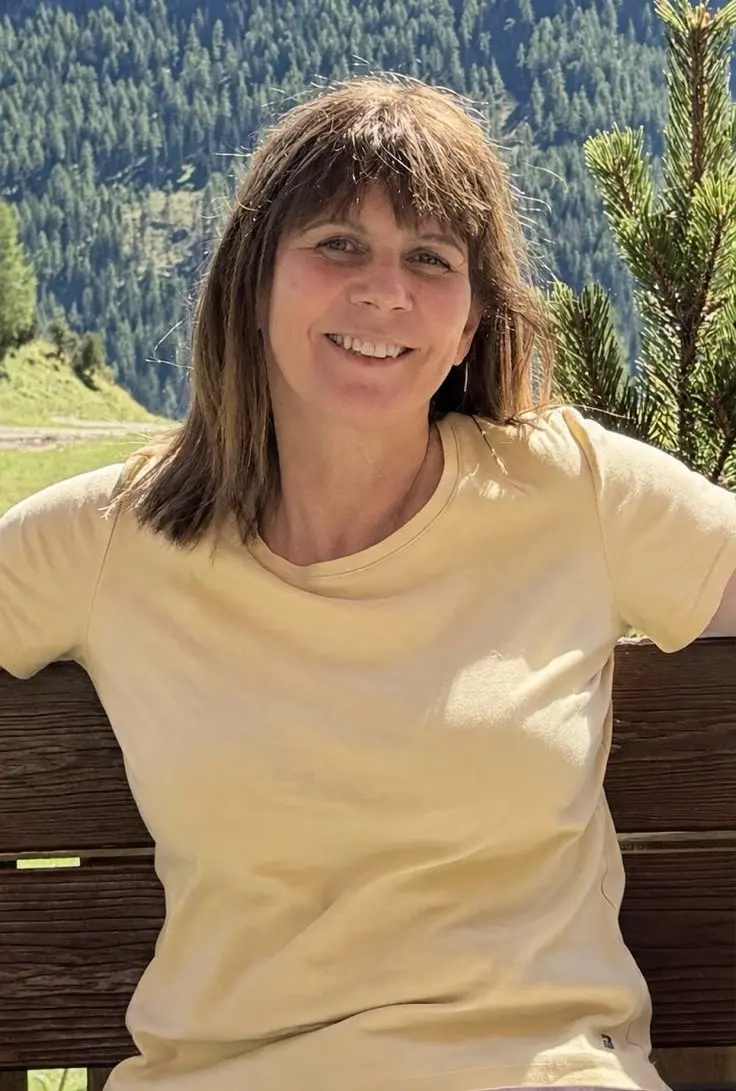
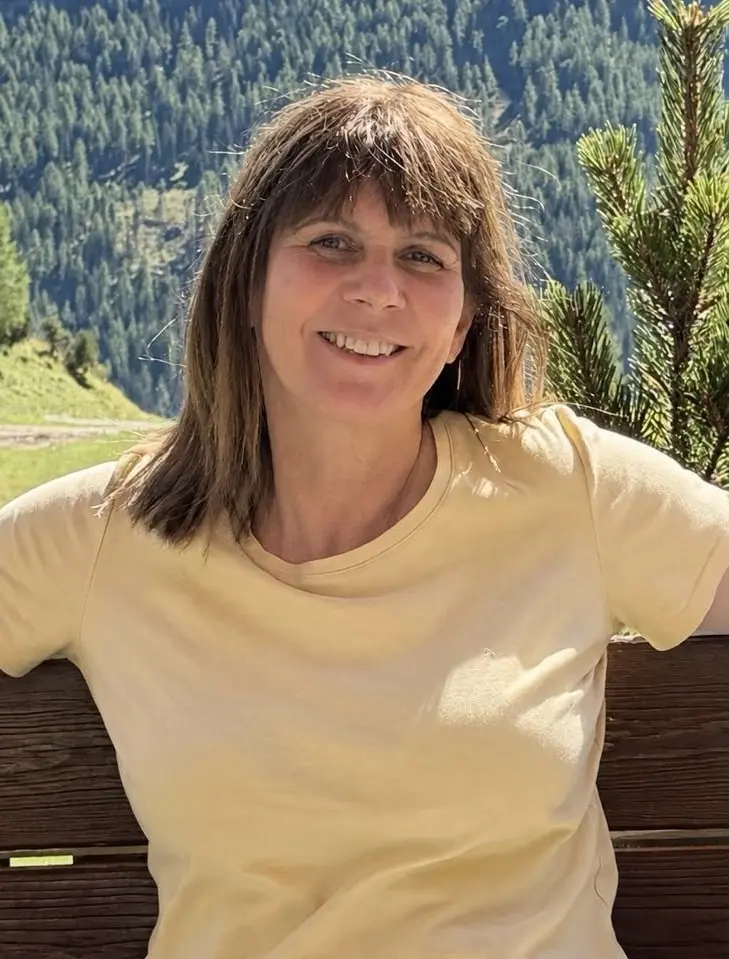
Deploying to gh-pages from @ ScanLab-ossi/ScanLab-ossi.github.io@e39e8ffe0a147072e25c900405483aba5eee9ce5 🚀

diff --git a/index.html b/index.html
@@ -20,7 +20,7 @@
   :root {
     --max-content-width: 930px;
   }
-</style> <link rel="stylesheet" href="/assets/css/tailwind.css?v=50c64c15cbb9fd1ce6056fdb8bcb4b62"> <link defer rel="stylesheet" href="https://cdn.jsdelivr.net/npm/@fortawesome/fontawesome-free@7.2.0/css/all.min.css" integrity="sha256-MVopmdyC2tYTiJ8wlktf0uh0v4NgT+vNdyVFepi7Q0c=" crossorigin="anonymous"> <link defer rel="stylesheet" href="https://cdn.jsdelivr.net/npm/academicons@1.9.5/css/academicons.min.css" integrity="sha256-SzrCOBJbGVFMahewkgjwnApaV2+av1DwMAA+/QGLyZw=" crossorigin="anonymous"> <link defer rel="stylesheet" href="https://cdn.jsdelivr.net/npm/scholar-icons@1.0.3/css/scholar-icons.css" integrity="sha256-VY3hHVj/hNX3fYG6wtbA6TcKJQl7+FthzGSyIB64klY=" crossorigin="anonymous"> <link defer rel="stylesheet" type="text/css" href="https://fonts.googleapis.com/css?family=Roboto:300,400,500,700|Roboto+Slab:100,300,400,500,700|Material+Icons&amp;display=swap"> <link defer rel="stylesheet" href="/assets/css/jekyll-pygments-themes-github.css?v=591dab5a4e56573bf4ef7fd332894c99" media="" id="highlight_theme_light"> <link rel="shortcut icon" href="/assets/img/favicon.png?v=ea7904c47cbd5a6f403e2af74b6ba9ca"> <link rel="stylesheet" href="/assets/css/main.css?v=f0b101217084a90093badfe99ff9a7d1"> <link rel="canonical" href="https://ossimokryn.com/"> </head> <body class="fixed-top-nav "> <header> <nav id="navbar" class="navbar navbar-light navbar-expand-sm fixed-top" role="navigation"> <div class="container"> <button class="navbar-toggler collapsed navbar-toggler-main" type="button" data-nav-toggle="navbarNav" aria-controls="navbarNav" aria-expanded="false" aria-label="Toggle navigation"> <span class="sr-only">Toggle navigation</span> <span class="icon-bar top-bar"></span> <span class="icon-bar middle-bar"></span> <span class="icon-bar bottom-bar"></span> </button> <div class="collapse navbar-collapse navbar-collapse-main" id="navbarNav"> <ul class="navbar-nav navbar-menu-list flex-nowrap"> <li class="nav-item active"> <a class="nav-link" href="/">about <span class="sr-only">(current)</span> </a> </li> <li class="nav-item "> <a class="nav-link" href="/people/">lab </a> </li> <li class="nav-item "> <a class="nav-link" href="/blog/">blog </a> </li> <li class="nav-item "> <a class="nav-link" href="/projects/">research </a> </li> <li class="nav-item "> <a class="nav-link" href="/publications/">publications </a> </li> <li class="nav-item "> <a class="nav-link" href="/teaching/">teaching </a> </li> <li class="nav-item "> <a class="nav-link" href="/cv/">cv </a> </li> <li class="nav-item"> <button id="search-toggle" type="button" title="Search" aria-label="Open search"> <span class="nav-link">ctrl k <i class="fa-solid fa-magnifying-glass"></i></span> </button> </li> </ul> </div> </div> </nav> <progress id="progress" value="0"> <div class="progress-container"> <span class="progress-bar"></span> </div> </progress> </header> <div class="container mt-5" role="main"> <div class="post"> <header class="post-header"> <h1 class="post-title"> <span class="font-weight-bold">Osnat</span> (Ossi) Mokryn </h1> <p class="desc">Associate Professor, Department of Information Systems, <a href="https://www.haifa.ac.il/?lang=en" rel="external nofollow noopener" target="_blank">University of Haifa</a>. Chair, ACM IUI Steering Committee.</p> </header> <article> <div class="profile float-right"> <figure> <picture> <source class="responsive-img-srcset" srcset="/assets/img/prof_pic-480.webp 480w,/assets/img/prof_pic-800.webp 800w,/assets/img/prof_pic-1400.webp 1400w," type="image/webp" sizes="(min-width: 930px) 270.0px, (min-width: 576px) 30vw, 95vw"> <img src="/assets/img/prof_pic.jpg?v=bac40b5e7a4ef5693e4e0a1dd1584b67" class="img-fluid z-depth-1 rounded" width="100%" height="auto" alt="prof_pic.jpg" loading="eager" onerror="this.onerror=null; document.querySelectorAll('.responsive-img-srcset').forEach(function (n) { n.remove(); });"> </source></picture> </figure> <div class="more-info"> <p><strong>Email:</strong> omokryn [at] is.haifa.ac.il</p> <p><strong>Office:</strong> Amir 321</p> <p>Hanamal 65, Haifa, Israel</p> </div> </div> <div class="clearfix"> <p>I study complex human systems: how people interact, make decisions, and adapt when technology, uncertainty, and time shape their choices.</p> <p>In my research on human–AI collaboration, I examine what changes in people when an AI system becomes part of the team. How does a group generate ideas with a language model in the room? How does trust change when a teammate is a machine? And how do professionals preserve, and redefine, their expertise? I am particularly interested in human–AI decision-making under pressure, including in medical settings.</p> <p>I also study absence: the gap between what is expected and what is actually observed. Absence can contain important information, but conventional analyses often overlook it. I developed <a href="/projects/2_project/">two information-theoretic methods</a> that transform data so consequential absences can be detected and used in analysis.</p> <p>A third strand of my research examines how interactions unfold over time. Social and organizational interactions have rhythms, and those rhythms can shape collective outcomes. In our work on temporal networks and community dynamics, we showed that the timing of interactions within a community can influence how a disease spreads, sometimes more strongly than differences in the pathogen itself. I presented this research in a keynote at <a href="/blog/2025/netscix-keynote/">NetSciX 2025</a> and, more recently, at <a href="http://www.sigmaphi.polito.it/" rel="external nofollow noopener" target="_blank">SigmaPhi 2026</a>.</p> <p>I chair the <a href="https://iui.acm.org/steering/" rel="external nofollow noopener" target="_blank">ACM IUI Steering Committee</a> and serve as an Associate Editor at <em>ACM Transactions on Interactive Intelligent Systems</em>. I hold a Ph.D. in Computer Science from the Hebrew University of Jerusalem, and an M.Sc. and B.Sc. from the Technion. Prospective students: please see the <a href="/people/">lab page</a> and get in touch.</p> </div> <h2> <a href="/news/" style="color: inherit">news</a> </h2> <div class="news"> <div class="table-responsive" style="max-height: 60vw"> <table class="table table-sm table-borderless"> <tr> <th scope="row" style="width: 20%">Jan 05, 2026</th> <td> Two papers accepted to <strong>ACM IUI 2026</strong>: Hagit Ben-Shoshan et al., <em>Seeing What’s Not There</em>, and Eran Fainman et al., <em>DiSCo: Making Absence Visible in Intelligent Summarization Interfaces</em>. 🎉 </td> </tr> <tr> <th scope="row" style="width: 20%">Jan 01, 2026</th> <td> I began my term as <strong>Chair of the <a href="https://iui.acm.org/steering/" rel="external nofollow noopener" target="_blank">ACM IUI Steering Committee</a></strong>. </td> </tr> <tr> <th scope="row" style="width: 20%">Sep 01, 2025</th> <td> Our PhD student <strong>Eran Fainman</strong> (co-advised with Dr. Adir Solomon) had <em>PAIRSAT</em> accepted to <strong>ACM RecSys 2025</strong>. 🎉 </td> </tr> <tr> <th scope="row" style="width: 20%">May 15, 2025</th> <td> New papers accepted: <em>Interpretable Transformation and Analysis of Timelines through Learning via Surprisability</em> (<strong>Chaos</strong>) and <em>Emotion Diversification for Movie Recommenders</em> (<strong>ACM TiiS</strong>). </td> </tr> <tr> <th scope="row" style="width: 20%">Feb 01, 2025</th> <td> I delivered a <strong>keynote at NetSciX’25</strong> in Indore, India, presenting our interaction-driven model for the dynamics of viral transmission in real-world interactions. </td> </tr> </table> </div> </div> <h2> <a href="/blog/" style="color: inherit">latest posts</a> </h2> <div class="news"> <div class="table-responsive" style="max-height: 60vw"> <table class="table table-sm table-borderless"> <tr> <th scope="row" style="width: 20%">Nov 03, 2025</th> <td> <a class="news-title" href="/blog/2025/unleashing-absence-and-surprise/">Unleashing the Power of Absence and Surprise</a> </td> </tr> <tr> <th scope="row" style="width: 20%">Sep 14, 2025</th> <td> <a class="news-title" href="/blog/2025/eran-recsys-2025/">Lab Celebration: Eran's RecSys 2025 Paper!</a> </td> </tr> <tr> <th scope="row" style="width: 20%">May 04, 2025</th> <td> <a class="news-title" href="/blog/2025/travelers-say-vs-rate/">Paper Alert: What Travelers Say vs. What They Rate</a> </td> </tr> </table> </div> </div> <h2> <a href="/publications/" style="color: inherit">selected publications</a> </h2> <div class="publications"> <ol class="bibliography"> <li> <div class="row"> <div class="col col-sm-2 abbr"> <abbr class="badge rounded w-100">IJHCI</abbr> </div> <div id="alfassi2025fanfiction" class="col-sm-8"> <div class="title">Fanfiction in the Age of AI: Community Perspectives on Creativity, Authenticity and Adoption</div> <div class="author"> Roi Alfassi, Angelora Cooper, Zoe Mitchell, and <span class="more-authors" title="click to view 3 more authors" onclick=" var element=this; element.setAttribute('title', ''); var more_authors_text=element.textContent == '3 more authors' ? 'Mary Calabro, Orit Shaer, Osnat Mokryn' : '3 more authors'; var cursorPosition=0; var textAdder=setInterval(function(){ element.innerHTML = more_authors_text.substring(0, cursorPosition + 1); if (++cursorPosition == more_authors_text.length){ clearInterval(textAdder); } }, '10'); ">3 more authors</span> </div> <div class="periodical"> <em>International Journal of Human-Computer Interaction</em>, 2026 </div> <div class="periodical"> </div> <div class="links"> <a class="bibtex btn btn-sm z-depth-0" role="button">Bib</a> </div> <div class="bibtex hidden"> <figure class="highlight"><pre><code class="language-bibtex" data-lang="bibtex"><span class="nc">@article</span><span class="p">{</span><span class="nl">alfassi2025fanfiction</span><span class="p">,</span>
+</style> <link rel="stylesheet" href="/assets/css/tailwind.css?v=50c64c15cbb9fd1ce6056fdb8bcb4b62"> <link defer rel="stylesheet" href="https://cdn.jsdelivr.net/npm/@fortawesome/fontawesome-free@7.2.0/css/all.min.css" integrity="sha256-MVopmdyC2tYTiJ8wlktf0uh0v4NgT+vNdyVFepi7Q0c=" crossorigin="anonymous"> <link defer rel="stylesheet" href="https://cdn.jsdelivr.net/npm/academicons@1.9.5/css/academicons.min.css" integrity="sha256-SzrCOBJbGVFMahewkgjwnApaV2+av1DwMAA+/QGLyZw=" crossorigin="anonymous"> <link defer rel="stylesheet" href="https://cdn.jsdelivr.net/npm/scholar-icons@1.0.3/css/scholar-icons.css" integrity="sha256-VY3hHVj/hNX3fYG6wtbA6TcKJQl7+FthzGSyIB64klY=" crossorigin="anonymous"> <link defer rel="stylesheet" type="text/css" href="https://fonts.googleapis.com/css?family=Roboto:300,400,500,700|Roboto+Slab:100,300,400,500,700|Material+Icons&amp;display=swap"> <link defer rel="stylesheet" href="/assets/css/jekyll-pygments-themes-github.css?v=591dab5a4e56573bf4ef7fd332894c99" media="" id="highlight_theme_light"> <link rel="shortcut icon" href="/assets/img/favicon.png?v=ea7904c47cbd5a6f403e2af74b6ba9ca"> <link rel="stylesheet" href="/assets/css/main.css?v=f0b101217084a90093badfe99ff9a7d1"> <link rel="canonical" href="https://ossimokryn.com/"> </head> <body class="fixed-top-nav "> <header> <nav id="navbar" class="navbar navbar-light navbar-expand-sm fixed-top" role="navigation"> <div class="container"> <button class="navbar-toggler collapsed navbar-toggler-main" type="button" data-nav-toggle="navbarNav" aria-controls="navbarNav" aria-expanded="false" aria-label="Toggle navigation"> <span class="sr-only">Toggle navigation</span> <span class="icon-bar top-bar"></span> <span class="icon-bar middle-bar"></span> <span class="icon-bar bottom-bar"></span> </button> <div class="collapse navbar-collapse navbar-collapse-main" id="navbarNav"> <ul class="navbar-nav navbar-menu-list flex-nowrap"> <li class="nav-item active"> <a class="nav-link" href="/">about <span class="sr-only">(current)</span> </a> </li> <li class="nav-item "> <a class="nav-link" href="/people/">lab </a> </li> <li class="nav-item "> <a class="nav-link" href="/blog/">blog </a> </li> <li class="nav-item "> <a class="nav-link" href="/projects/">research </a> </li> <li class="nav-item "> <a class="nav-link" href="/publications/">publications </a> </li> <li class="nav-item "> <a class="nav-link" href="/teaching/">teaching </a> </li> <li class="nav-item "> <a class="nav-link" href="/cv/">cv </a> </li> <li class="nav-item"> <button id="search-toggle" type="button" title="Search" aria-label="Open search"> <span class="nav-link">ctrl k <i class="fa-solid fa-magnifying-glass"></i></span> </button> </li> </ul> </div> </div> </nav> <progress id="progress" value="0"> <div class="progress-container"> <span class="progress-bar"></span> </div> </progress> </header> <div class="container mt-5" role="main"> <div class="post"> <header class="post-header"> <h1 class="post-title"> <span class="font-weight-bold">Osnat</span> (Ossi) Mokryn </h1> <p class="desc">Associate Professor, Department of Information Systems, <a href="https://www.haifa.ac.il/?lang=en" rel="external nofollow noopener" target="_blank">University of Haifa</a>. Chair, ACM IUI Steering Committee.</p> </header> <article> <div class="profile float-right"> <figure> <picture> <source class="responsive-img-srcset" srcset="/assets/img/prof_pic-480.webp 480w,/assets/img/prof_pic-800.webp 800w,/assets/img/prof_pic-1400.webp 1400w," type="image/webp" sizes="(min-width: 930px) 270.0px, (min-width: 576px) 30vw, 95vw"> <img src="/assets/img/prof_pic.jpg?v=d50d26db3c29e7b280a7b3308ae3ac12" class="img-fluid z-depth-1 rounded" width="100%" height="auto" alt="prof_pic.jpg" loading="eager" onerror="this.onerror=null; document.querySelectorAll('.responsive-img-srcset').forEach(function (n) { n.remove(); });"> </source></picture> </figure> <div class="more-info"> <p><strong>Email:</strong> omokryn [at] is.haifa.ac.il</p> <p><strong>Office:</strong> Amir 321</p> <p>Hanamal 65, Haifa, Israel</p> </div> </div> <div class="clearfix"> <p>I study complex human systems: how people interact, make decisions, and adapt when technology, uncertainty, and time shape their choices.</p> <p>In my research on human–AI collaboration, I examine what changes in people when an AI system becomes part of the team. How does a group generate ideas with a language model in the room? How does trust change when a teammate is a machine? And how do professionals preserve, and redefine, their expertise? I am particularly interested in human–AI decision-making under pressure, including in medical settings.</p> <p>I also study absence: the gap between what is expected and what is actually observed. Absence can contain important information, but conventional analyses often overlook it. I developed <a href="/projects/2_project/">two information-theoretic methods</a> that transform data so consequential absences can be detected and used in analysis.</p> <p>A third strand of my research examines how interactions unfold over time. Social and organizational interactions have rhythms, and those rhythms can shape collective outcomes. In our work on temporal networks and community dynamics, we showed that the timing of interactions within a community can influence how a disease spreads, sometimes more strongly than differences in the pathogen itself. I presented this research in a keynote at <a href="/blog/2025/netscix-keynote/">NetSciX 2025</a> and, more recently, at <a href="http://www.sigmaphi.polito.it/" rel="external nofollow noopener" target="_blank">SigmaPhi 2026</a>.</p> <p>I chair the <a href="https://iui.acm.org/steering/" rel="external nofollow noopener" target="_blank">ACM IUI Steering Committee</a> and serve as an Associate Editor at <em>ACM Transactions on Interactive Intelligent Systems</em>. I hold a Ph.D. in Computer Science from the Hebrew University of Jerusalem, and an M.Sc. and B.Sc. from the Technion. Prospective students: please see the <a href="/people/">lab page</a> and get in touch.</p> </div> <h2> <a href="/news/" style="color: inherit">news</a> </h2> <div class="news"> <div class="table-responsive" style="max-height: 60vw"> <table class="table table-sm table-borderless"> <tr> <th scope="row" style="width: 20%">Jan 05, 2026</th> <td> Two papers accepted to <strong>ACM IUI 2026</strong>: Hagit Ben-Shoshan et al., <em>Seeing What’s Not There</em>, and Eran Fainman et al., <em>DiSCo: Making Absence Visible in Intelligent Summarization Interfaces</em>. 🎉 </td> </tr> <tr> <th scope="row" style="width: 20%">Jan 01, 2026</th> <td> I began my term as <strong>Chair of the <a href="https://iui.acm.org/steering/" rel="external nofollow noopener" target="_blank">ACM IUI Steering Committee</a></strong>. </td> </tr> <tr> <th scope="row" style="width: 20%">Sep 01, 2025</th> <td> Our PhD student <strong>Eran Fainman</strong> (co-advised with Dr. Adir Solomon) had <em>PAIRSAT</em> accepted to <strong>ACM RecSys 2025</strong>. 🎉 </td> </tr> <tr> <th scope="row" style="width: 20%">May 15, 2025</th> <td> New papers accepted: <em>Interpretable Transformation and Analysis of Timelines through Learning via Surprisability</em> (<strong>Chaos</strong>) and <em>Emotion Diversification for Movie Recommenders</em> (<strong>ACM TiiS</strong>). </td> </tr> <tr> <th scope="row" style="width: 20%">Feb 01, 2025</th> <td> I delivered a <strong>keynote at NetSciX’25</strong> in Indore, India, presenting our interaction-driven model for the dynamics of viral transmission in real-world interactions. </td> </tr> </table> </div> </div> <h2> <a href="/blog/" style="color: inherit">latest posts</a> </h2> <div class="news"> <div class="table-responsive" style="max-height: 60vw"> <table class="table table-sm table-borderless"> <tr> <th scope="row" style="width: 20%">Nov 03, 2025</th> <td> <a class="news-title" href="/blog/2025/unleashing-absence-and-surprise/">Unleashing the Power of Absence and Surprise</a> </td> </tr> <tr> <th scope="row" style="width: 20%">Sep 14, 2025</th> <td> <a class="news-title" href="/blog/2025/eran-recsys-2025/">Lab Celebration: Eran's RecSys 2025 Paper!</a> </td> </tr> <tr> <th scope="row" style="width: 20%">May 04, 2025</th> <td> <a class="news-title" href="/blog/2025/travelers-say-vs-rate/">Paper Alert: What Travelers Say vs. What They Rate</a> </td> </tr> </table> </div> </div> <h2> <a href="/publications/" style="color: inherit">selected publications</a> </h2> <div class="publications"> <ol class="bibliography"> <li> <div class="row"> <div class="col col-sm-2 abbr"> <abbr class="badge rounded w-100">IJHCI</abbr> </div> <div id="alfassi2025fanfiction" class="col-sm-8"> <div class="title">Fanfiction in the Age of AI: Community Perspectives on Creativity, Authenticity and Adoption</div> <div class="author"> Roi Alfassi, Angelora Cooper, Zoe Mitchell, and <span class="more-authors" title="click to view 3 more authors" onclick=" var element=this; element.setAttribute('title', ''); var more_authors_text=element.textContent == '3 more authors' ? 'Mary Calabro, Orit Shaer, Osnat Mokryn' : '3 more authors'; var cursorPosition=0; var textAdder=setInterval(function(){ element.innerHTML = more_authors_text.substring(0, cursorPosition + 1); if (++cursorPosition == more_authors_text.length){ clearInterval(textAdder); } }, '10'); ">3 more authors</span> </div> <div class="periodical"> <em>International Journal of Human-Computer Interaction</em>, 2026 </div> <div class="periodical"> </div> <div class="links"> <a class="bibtex btn btn-sm z-depth-0" role="button">Bib</a> </div> <div class="bibtex hidden"> <figure class="highlight"><pre><code class="language-bibtex" data-lang="bibtex"><span class="nc">@article</span><span class="p">{</span><span class="nl">alfassi2025fanfiction</span><span class="p">,</span>
   <span class="na">title</span> <span class="p">=</span> <span class="s">{Fanfiction in the Age of AI: Community Perspectives on Creativity, Authenticity and Adoption}</span><span class="p">,</span>
   <span class="na">author</span> <span class="p">=</span> <span class="s">{Alfassi, Roi and Cooper, Angelora and Mitchell, Zoe and Calabro, Mary and Shaer, Orit and Mokryn, Osnat}</span><span class="p">,</span>
   <span class="na">journal</span> <span class="p">=</span> <span class="s">{International Journal of Human-Computer Interaction}</span><span class="p">,</span>

diff --git a/assets/jupyter/blog.ipynb.html b/assets/jupyter/blog.ipynb.html
@@ -1,4 +1,4 @@
-<!DOCTYPE html> <html lang="en"> <head><meta charset="utf-8"/> <meta content="width=device-width, initial-scale=1.0" name="viewport"/> <title>jekyll-jupyter-notebook20260913-4245-ni3t5s</title><script src="https://cdnjs.cloudflare.com/ajax/libs/require.js/2.1.10/require.min.js"></script> <style type="text/css">
+<!DOCTYPE html> <html lang="en"> <head><meta charset="utf-8"/> <meta content="width=device-width, initial-scale=1.0" name="viewport"/> <title>jekyll-jupyter-notebook20260915-3228-oc833o</title><script src="https://cdnjs.cloudflare.com/ajax/libs/require.js/2.1.10/require.min.js"></script> <style type="text/css">
     pre { line-height: 125%; }
 td.linenos .normal { color: inherit; background-color: transparent; padding-left: 5px; padding-right: 5px; }
 span.linenos { color: inherit; background-color: transparent; padding-left: 5px; padding-right: 5px; }
